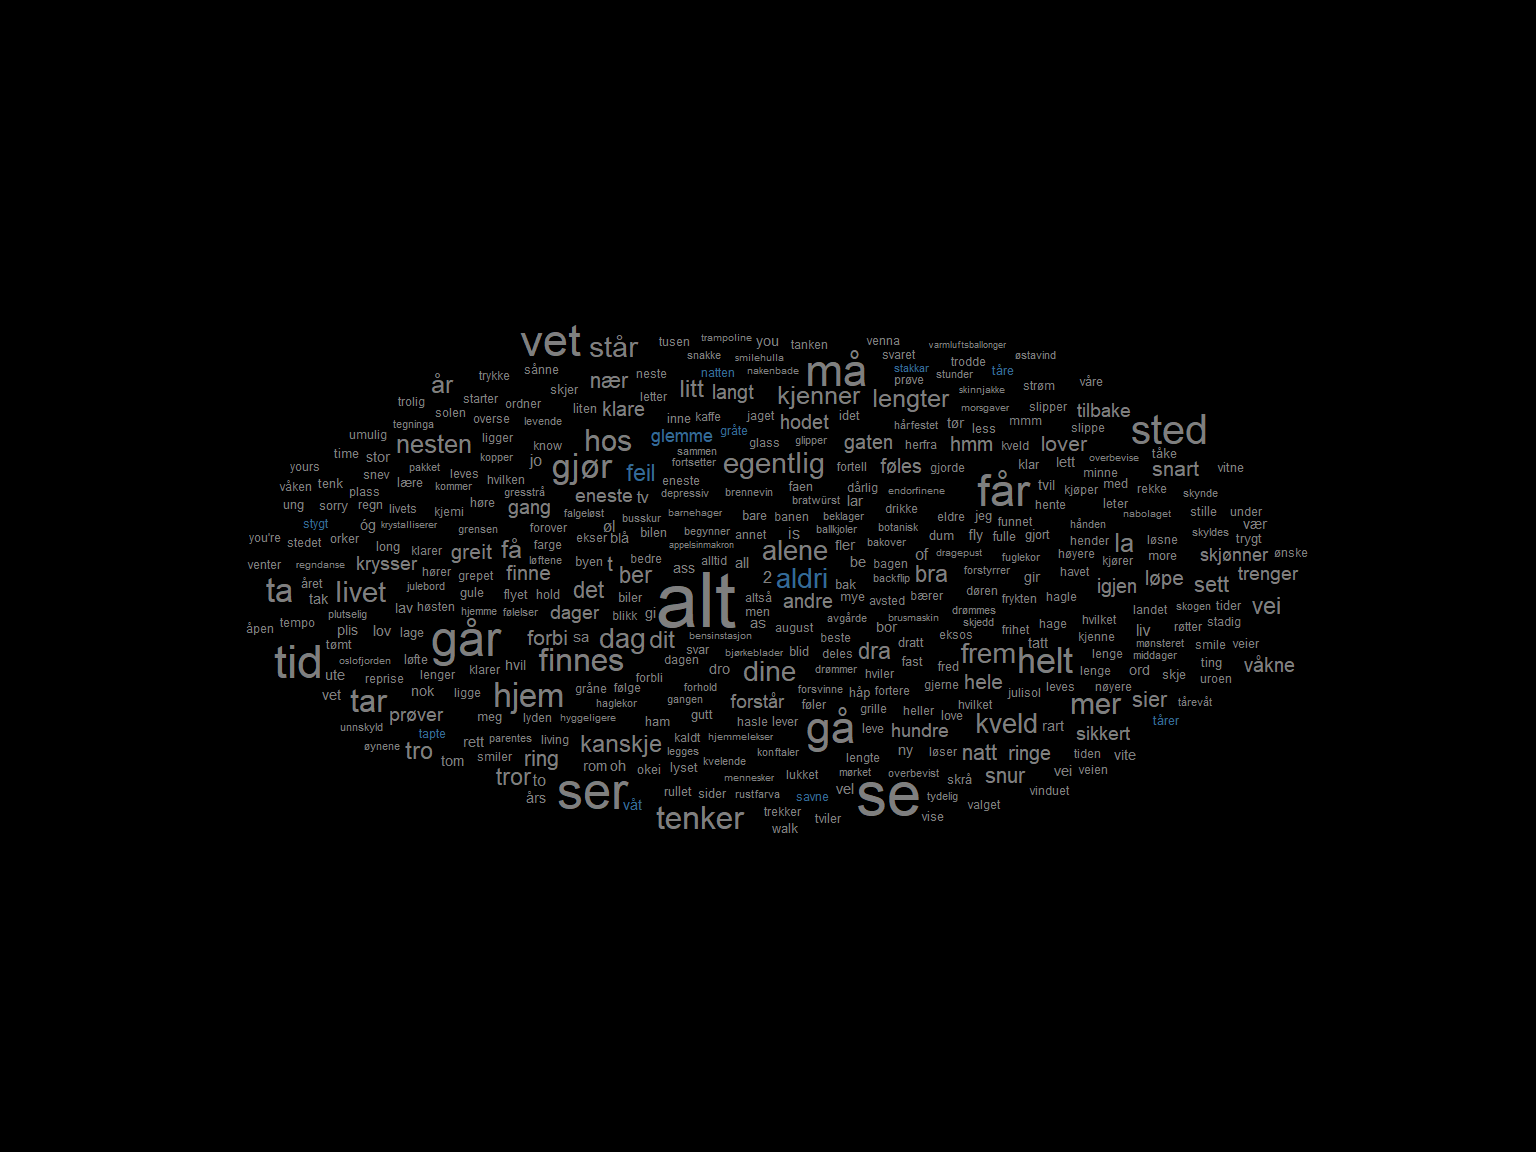
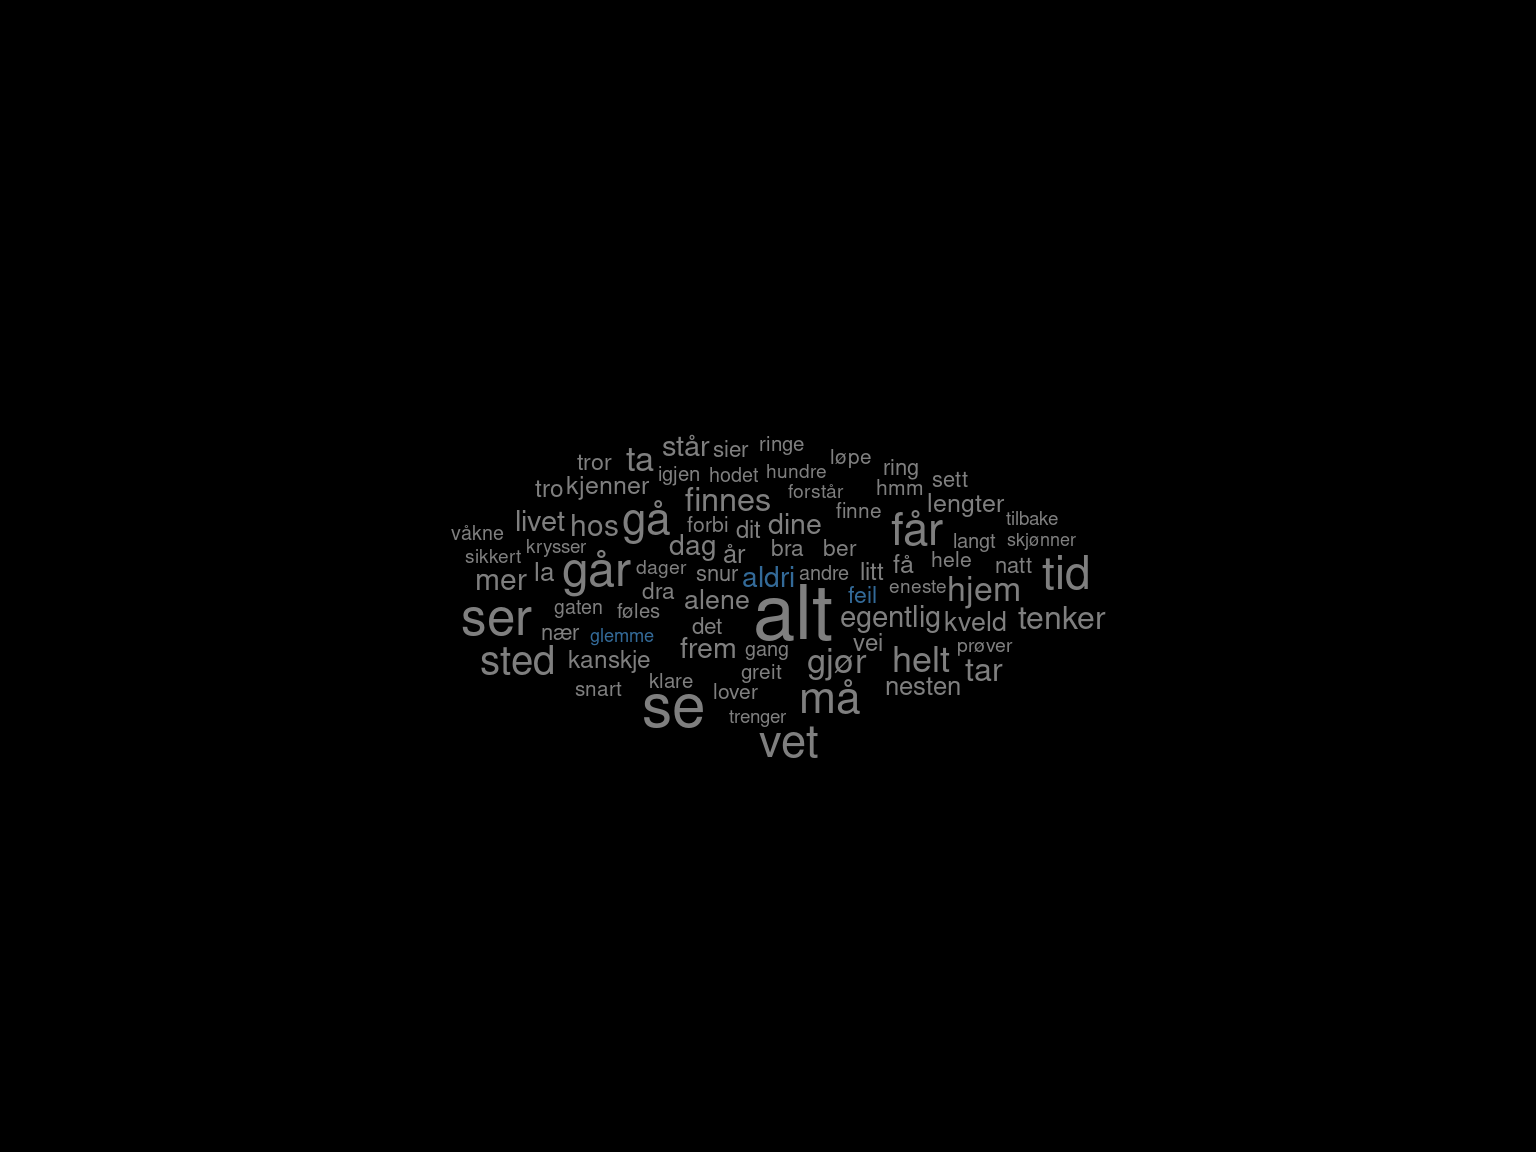
fikset litt på ting som gjorde presentasjonen treg +++

Changed region(s): [[0.1562, 0.2812, 0.8438, 0.7188]]

diff --git a/undervisningsmateriell/forelesninger/uke_01/uke01_intro.html b/undervisningsmateriell/forelesninger/uke_01/uke01_intro.html
@@ -620,9 +620,9 @@ Grunnbok!
 </ul></li>
 <li class="fragment"><p style="color:#D1B41B">
 Silge J, Robinson D (2017). <em>Text mining with R: A tidy
-approach</em>., O’Reilly Media, Inc. &lt;URL: <a
+approach</em>., O’Reilly Media, Inc. <a
 href="https://www.tidytextmining.com/"
-class="uri">https://www.tidytextmining.com/</a>&gt;.
+class="uri">https://www.tidytextmining.com/</a>.
 </p>
 <ul>
 <li class="fragment"><p style="color:#ffffff">
@@ -632,8 +632,8 @@ Tidy tekstformat
 <li class="fragment"><p style="color:#D1B41B">
 Benoit K, Watanabe K, Nulty P, Obeng A, Wang H, Lauderdale B, Lowe W,
 (2017). <em>quanteda: Quantitative Analysis of Textual Data</em>. R
-package, version 0.9.9-65, &lt;URL: <a href="http://quanteda.io"
-class="uri">http://quanteda.io</a>&gt;.
+package, version 0.9.9-65, <a href="http://quanteda.io"
+class="uri">http://quanteda.io</a>.
 </p>
 <ul>
 <li class="fragment"><p style="color:#ffffff">
@@ -793,7 +793,7 @@ class="sourceCode r wider-chunk"><code class="sourceCode r"><span id="cb1-1"><a 
 <section class="slide level2">
 
 <p></br></br></p>
-<pre><code>## # A tibble: 12 x 3
+<pre><code>## # A tibble: 12 × 3
 ##    spor  titler                        tekst                          
 ##    &lt;chr&gt; &lt;chr&gt;                         &lt;chr&gt;                          
 ##  1 1     Parentes                      &quot;Forstyrrer jeg, eller har du &quot;
@@ -823,16 +823,16 @@ class="sourceCode r code-bg"><code class="sourceCode r"><span id="cb3-1"><a href
 <span id="cb3-8"><a href="#cb3-8" aria-hidden="true" tabindex="-1"></a>  <span class="fu">count</span>(ord)</span>
 <span id="cb3-9"><a href="#cb3-9" aria-hidden="true" tabindex="-1"></a></span>
 <span id="cb3-10"><a href="#cb3-10" aria-hidden="true" tabindex="-1"></a>no4_tokens <span class="sc">%&gt;%</span> <span class="fu">head</span>(<span class="dv">6</span>)</span></code></pre></div>
-<pre><code>## # A tibble: 6 x 3
+<pre><code>## # A tibble: 6 × 3
 ## # Groups:   spor [1]
 ##    spor ord       n
 ##   &lt;int&gt; &lt;chr&gt; &lt;int&gt;
-## 1     1 at        5
-## 2     1 bare      4
-## 3     1 bra       1
-## 4     1 der       1
-## 5     1 det       4
-## 6     1 dette     4</code></pre>
+## 1     1 å         1
+## 2     1 at        5
+## 3     1 bare      4
+## 4     1 bra       1
+## 5     1 der       1
+## 6     1 det       4</code></pre>
 </div>
 <div class="fragment">
 <div class="right" style="float:right;width:50%">
@@ -842,7 +842,7 @@ class="sourceCode r code-bg"><code class="sourceCode r"><span id="cb5-1"><a href
 <span id="cb5-3"><a href="#cb5-3" aria-hidden="true" tabindex="-1"></a>  <span class="fu">slice_max</span>(<span class="at">n =</span> <span class="dv">1</span>, </span>
 <span id="cb5-4"><a href="#cb5-4" aria-hidden="true" tabindex="-1"></a>            <span class="at">order_by =</span> n, </span>
 <span id="cb5-5"><a href="#cb5-5" aria-hidden="true" tabindex="-1"></a>            <span class="at">with_ties =</span> <span class="cn">FALSE</span>)</span></code></pre></div>
-<pre><code>## # A tibble: 12 x 3
+<pre><code>## # A tibble: 12 × 3
 ## # Groups:   spor [12]
 ##     spor ord         n
 ##    &lt;int&gt; &lt;chr&gt;   &lt;int&gt;
@@ -876,7 +876,7 @@ class="sourceCode r code-bg"><code class="sourceCode r"><span id="cb7-1"><a href
 <span id="cb7-9"><a href="#cb7-9" aria-hidden="true" tabindex="-1"></a>  <span class="fu">filter</span>(ord <span class="sc">%in%</span> quanteda<span class="sc">::</span><span class="fu">stopwords</span>(<span class="st">&quot;no&quot;</span>) <span class="sc">==</span> <span class="cn">FALSE</span>)</span>
 <span id="cb7-10"><a href="#cb7-10" aria-hidden="true" tabindex="-1"></a></span>
 <span id="cb7-11"><a href="#cb7-11" aria-hidden="true" tabindex="-1"></a>no4_tokens <span class="sc">%&gt;%</span> <span class="fu">head</span>(<span class="dv">6</span>)</span></code></pre></div>
-<pre><code>## # A tibble: 6 x 3
+<pre><code>## # A tibble: 6 × 3
 ## # Groups:   spor [1]
 ##    spor ord            n
 ##   &lt;int&gt; &lt;chr&gt;      &lt;int&gt;
@@ -895,7 +895,7 @@ class="sourceCode r code-bg"><code class="sourceCode r"><span id="cb9-1"><a href
 <span id="cb9-3"><a href="#cb9-3" aria-hidden="true" tabindex="-1"></a>  <span class="fu">slice_max</span>(<span class="at">n =</span> <span class="dv">1</span>, </span>
 <span id="cb9-4"><a href="#cb9-4" aria-hidden="true" tabindex="-1"></a>            <span class="at">order_by =</span> n, </span>
 <span id="cb9-5"><a href="#cb9-5" aria-hidden="true" tabindex="-1"></a>            <span class="at">with_ties =</span> <span class="cn">FALSE</span>)</span></code></pre></div>
-<pre><code>## # A tibble: 12 x 3
+<pre><code>## # A tibble: 12 × 3
 ## # Groups:   spor [12]
 ##     spor ord         n
 ##    &lt;int&gt; &lt;chr&gt;   &lt;int&gt;
@@ -955,7 +955,7 @@ forskningsprosessen:</p>
 <li class="fragment">Hvilket ord dukker oftest opp på platen?</li>
 </ul>
 <div class="fragment">
-<pre><code>## # A tibble: 405 x 2
+<pre><code>## # A tibble: 405 × 2
 ##    ord       n
 ##    &lt;chr&gt; &lt;int&gt;
 ##  1 alt      10
@@ -968,7 +968,7 @@ forskningsprosessen:</p>
 ##  8 sted      5
 ##  9 tid       5
 ## 10 vet       5
-## # ... with 395 more rows</code></pre>
+## # … with 395 more rows</code></pre>
 </div>
 </section>
 <section id="deskriptiv-1" class="slide level2">
@@ -984,7 +984,6 @@ aktører?</li>
 </section>
 <section id="deskriptiv-2" class="slide level2">
 <h2>Deskriptiv</h2>
-<pre><code>## Warning: package &#39;igraph&#39; was built under R version 4.1.3</code></pre>
 <p><img src="uke01_intro_files/figure-revealjs/nettverk-1.png" width="768" /></p>
 </section>
 <section id="veiledet-vs.-ikke-veiledet-læring" class="slide level2">
@@ -1023,7 +1022,7 @@ den kan applisere på ny data.</p></li>
 <div class="fragment">
 <div class="right" style="float:right;width:50%">
 <p>Kan vi bruke informasjon om disse objektene…</p>
-<pre><code>## # A tibble: 5 x 3
+<pre><code>## # A tibble: 5 × 3
 ##   frukt fasong farge
 ##   &lt;chr&gt; &lt;chr&gt;  &lt;chr&gt;
 ## 1 banan lang   gul  
@@ -1032,7 +1031,7 @@ den kan applisere på ny data.</p></li>
 ## 4 banan lang   gul  
 ## 5 pære  lang   grønn</code></pre>
 <p>Til å finne ut om disse objektene er banan eller pære?</p>
-<pre><code>## # A tibble: 2 x 3
+<pre><code>## # A tibble: 2 × 3
 ##   frukt fasong farge
 ##   &lt;chr&gt; &lt;chr&gt;  &lt;chr&gt;
 ## 1 &quot;&quot;    rund   gul  
@@ -1056,7 +1055,7 @@ måling.</p></li>
 <div class="fragment">
 <div class="right" style="float:right;width:50%">
 <p>Vi kan bruke informasjon om disse objektene…</p>
-<pre><code>## # A tibble: 5 x 3
+<pre><code>## # A tibble: 5 × 3
 ##   fasong farge størrelse
 ##   &lt;chr&gt;  &lt;chr&gt; &lt;chr&gt;    
 ## 1 lang   gul   middels  
@@ -1065,7 +1064,7 @@ måling.</p></li>
 ## 4 lang   gul   middels  
 ## 5 lang   grønn stor</code></pre>
 <p>Til å si noe om hvordan objektene hører sammen?</p>
-<pre><code>## # A tibble: 5 x 4
+<pre><code>## # A tibble: 5 × 4
 ##   fasong farge størrelse  type
 ##   &lt;chr&gt;  &lt;chr&gt; &lt;chr&gt;     &lt;dbl&gt;
 ## 1 lang   gul   middels       1
@@ -1084,28 +1083,29 @@ og sjekk hvor mange ganger disse ordene dukker opp i ulike tekster.</p>
 <li class="fragment">Ordbøker er regelbaserte</li>
 </ul>
 <div class="fragment">
-<div class="sourceCode" id="cb19"><pre
-class="sourceCode r code-bg"><code class="sourceCode r"><span id="cb19-1"><a href="#cb19-1" aria-hidden="true" tabindex="-1"></a>trist <span class="ot">&lt;-</span> <span class="fu">tibble</span>(<span class="at">ord =</span> <span class="fu">c</span>(<span class="st">&quot;gråte&quot;</span>, <span class="st">&quot;savne&quot;</span>, <span class="st">&quot;våt&quot;</span>, <span class="st">&quot;tåre&quot;</span>, <span class="st">&quot;tårer&quot;</span>, <span class="st">&quot;stakkar&quot;</span>, <span class="st">&quot;stygt&quot;</span>, <span class="st">&quot;feil&quot;</span>, <span class="st">&quot;aldri&quot;</span>, <span class="st">&quot;natten&quot;</span>, <span class="st">&quot;glemme&quot;</span>, <span class="st">&quot;tapte&quot;</span>),</span>
-<span id="cb19-2"><a href="#cb19-2" aria-hidden="true" tabindex="-1"></a>                <span class="at">trist =</span> <span class="fu">c</span>(<span class="dv">1</span>, <span class="dv">1</span>, <span class="dv">1</span>, <span class="dv">1</span>, <span class="dv">1</span>, <span class="dv">1</span>, <span class="dv">1</span>, <span class="dv">1</span>, <span class="dv">1</span>, <span class="dv">1</span>, <span class="dv">1</span>, <span class="dv">1</span>))</span>
-<span id="cb19-3"><a href="#cb19-3" aria-hidden="true" tabindex="-1"></a></span>
-<span id="cb19-4"><a href="#cb19-4" aria-hidden="true" tabindex="-1"></a>no4_tokens <span class="sc">%&gt;%</span></span>
-<span id="cb19-5"><a href="#cb19-5" aria-hidden="true" tabindex="-1"></a>  <span class="fu">ungroup</span>() <span class="sc">%&gt;%</span></span>
-<span id="cb19-6"><a href="#cb19-6" aria-hidden="true" tabindex="-1"></a>  <span class="fu">count</span>(ord) <span class="sc">%&gt;%</span></span>
-<span id="cb19-7"><a href="#cb19-7" aria-hidden="true" tabindex="-1"></a>  <span class="fu">left_join</span>(trist) <span class="sc">%&gt;%</span></span>
-<span id="cb19-8"><a href="#cb19-8" aria-hidden="true" tabindex="-1"></a>  <span class="fu">ggplot</span>(., <span class="fu">aes</span>(<span class="at">label =</span> ord, </span>
-<span id="cb19-9"><a href="#cb19-9" aria-hidden="true" tabindex="-1"></a>                <span class="at">size =</span> n,  </span>
-<span id="cb19-10"><a href="#cb19-10" aria-hidden="true" tabindex="-1"></a>                <span class="at">color =</span> trist)) <span class="sc">+</span></span>
-<span id="cb19-11"><a href="#cb19-11" aria-hidden="true" tabindex="-1"></a>  <span class="fu">geom_text_wordcloud_area</span>()<span class="sc">+</span></span>
-<span id="cb19-12"><a href="#cb19-12" aria-hidden="true" tabindex="-1"></a>  <span class="fu">scale_size_area</span>(<span class="at">max_size =</span> <span class="dv">10</span>) <span class="sc">+</span></span>
-<span id="cb19-13"><a href="#cb19-13" aria-hidden="true" tabindex="-1"></a>  ggdark<span class="sc">::</span><span class="fu">dark_theme_void</span>()</span></code></pre></div>
-<p><img src="uke01_intro_files/figure-revealjs/ordbok-1.png" width="768" /></p>
+<div class="sourceCode" id="cb18"><pre
+class="sourceCode r code-bg"><code class="sourceCode r"><span id="cb18-1"><a href="#cb18-1" aria-hidden="true" tabindex="-1"></a>trist <span class="ot">&lt;-</span> <span class="fu">tibble</span>(<span class="at">ord =</span> <span class="fu">c</span>(<span class="st">&quot;gråte&quot;</span>, <span class="st">&quot;savne&quot;</span>, <span class="st">&quot;våt&quot;</span>, <span class="st">&quot;tåre&quot;</span>, <span class="st">&quot;tårer&quot;</span>, <span class="st">&quot;stakkar&quot;</span>, <span class="st">&quot;stygt&quot;</span>, <span class="st">&quot;feil&quot;</span>, <span class="st">&quot;aldri&quot;</span>, <span class="st">&quot;natten&quot;</span>, <span class="st">&quot;glemme&quot;</span>, <span class="st">&quot;tapte&quot;</span>),</span>
+<span id="cb18-2"><a href="#cb18-2" aria-hidden="true" tabindex="-1"></a>                <span class="at">trist =</span> <span class="fu">c</span>(<span class="dv">1</span>, <span class="dv">1</span>, <span class="dv">1</span>, <span class="dv">1</span>, <span class="dv">1</span>, <span class="dv">1</span>, <span class="dv">1</span>, <span class="dv">1</span>, <span class="dv">1</span>, <span class="dv">1</span>, <span class="dv">1</span>, <span class="dv">1</span>))</span>
+<span id="cb18-3"><a href="#cb18-3" aria-hidden="true" tabindex="-1"></a></span>
+<span id="cb18-4"><a href="#cb18-4" aria-hidden="true" tabindex="-1"></a>no4_tokens <span class="sc">%&gt;%</span></span>
+<span id="cb18-5"><a href="#cb18-5" aria-hidden="true" tabindex="-1"></a>  <span class="fu">ungroup</span>() <span class="sc">%&gt;%</span></span>
+<span id="cb18-6"><a href="#cb18-6" aria-hidden="true" tabindex="-1"></a>  <span class="fu">count</span>(ord) <span class="sc">%&gt;%</span></span>
+<span id="cb18-7"><a href="#cb18-7" aria-hidden="true" tabindex="-1"></a>  <span class="fu">left_join</span>(trist) <span class="sc">%&gt;%</span></span>
+<span id="cb18-8"><a href="#cb18-8" aria-hidden="true" tabindex="-1"></a>  <span class="fu">ggplot</span>(., <span class="fu">aes</span>(<span class="at">label =</span> ord, </span>
+<span id="cb18-9"><a href="#cb18-9" aria-hidden="true" tabindex="-1"></a>                <span class="at">size =</span> n,  </span>
+<span id="cb18-10"><a href="#cb18-10" aria-hidden="true" tabindex="-1"></a>                <span class="at">color =</span> trist)) <span class="sc">+</span></span>
+<span id="cb18-11"><a href="#cb18-11" aria-hidden="true" tabindex="-1"></a>  <span class="fu">geom_text_wordcloud_area</span>()<span class="sc">+</span></span>
+<span id="cb18-12"><a href="#cb18-12" aria-hidden="true" tabindex="-1"></a>  <span class="fu">scale_size_area</span>(<span class="at">max_size =</span> <span class="dv">10</span>) <span class="sc">+</span></span>
+<span id="cb18-13"><a href="#cb18-13" aria-hidden="true" tabindex="-1"></a>  ggdark<span class="sc">::</span><span class="fu">dark_theme_void</span>()</span>
+<span id="cb18-14"><a href="#cb18-14" aria-hidden="true" tabindex="-1"></a><span class="fu">ggsave</span>(<span class="st">&quot;./triste_ord.png&quot;</span>, <span class="at">width =</span> <span class="dv">10</span>, <span class="at">height =</span> <span class="dv">10</span>)</span></code></pre></div>
 </div>
 </section>
-<section id="ordbøker-tekstlikhet-og-sentiment-1" class="slide level2">
-<h2>Ordbøker, tekstlikhet og sentiment</h2>
-<p><img src="uke01_intro_files/figure-revealjs/ordbok-ordsky-1.png" width="768" /></p>
+<section id="section-3" class="slide level2"
+data-background="triste_ord.png" data-background-size="5200px">
+<h2 data-background="triste_ord.png" data-background-size="5200px"></h2>
+<!-- ![](./triste_ord.png){width=98%} -->
 </section>
-<section id="ordbøker-tekstlikhet-og-sentiment-2" class="slide level2">
+<section id="ordbøker-tekstlikhet-og-sentiment-1" class="slide level2">
 <h2>Ordbøker, tekstlikhet og sentiment</h2>
 <p><strong>Tekstlikhet:</strong> Ta to tekster og sammenlikn hvor like
 de er.</p>
@@ -1114,19 +1114,19 @@ de er.</p>
 læring.</li>
 </ul>
 <div class="fragment">
-<div class="sourceCode" id="cb20"><pre
-class="sourceCode r code-bg"><code class="sourceCode r"><span id="cb20-1"><a href="#cb20-1" aria-hidden="true" tabindex="-1"></a>no4 <span class="sc">%&gt;%</span> </span>
-<span id="cb20-2"><a href="#cb20-2" aria-hidden="true" tabindex="-1"></a>  <span class="fu">filter</span>(spor <span class="sc">%in%</span> <span class="fu">c</span>(<span class="dv">2</span>, <span class="dv">4</span>)) <span class="sc">%&gt;%</span> </span>
-<span id="cb20-3"><a href="#cb20-3" aria-hidden="true" tabindex="-1"></a>  <span class="fu">mutate</span>(<span class="at">likhet =</span> <span class="fu">c</span>(<span class="fl">0.09630868</span>, <span class="fl">0.09630868</span>)) <span class="sc">%&gt;%</span></span>
-<span id="cb20-4"><a href="#cb20-4" aria-hidden="true" tabindex="-1"></a>  <span class="fu">select</span>(likhet, titler, tekst)</span></code></pre></div>
-<pre><code>## # A tibble: 2 x 3
+<div class="sourceCode" id="cb19"><pre
+class="sourceCode r code-bg"><code class="sourceCode r"><span id="cb19-1"><a href="#cb19-1" aria-hidden="true" tabindex="-1"></a>no4 <span class="sc">%&gt;%</span> </span>
+<span id="cb19-2"><a href="#cb19-2" aria-hidden="true" tabindex="-1"></a>  <span class="fu">filter</span>(spor <span class="sc">%in%</span> <span class="fu">c</span>(<span class="dv">2</span>, <span class="dv">4</span>)) <span class="sc">%&gt;%</span> </span>
+<span id="cb19-3"><a href="#cb19-3" aria-hidden="true" tabindex="-1"></a>  <span class="fu">mutate</span>(<span class="at">likhet =</span> <span class="fu">c</span>(<span class="fl">0.09630868</span>, <span class="fl">0.09630868</span>)) <span class="sc">%&gt;%</span></span>
+<span id="cb19-4"><a href="#cb19-4" aria-hidden="true" tabindex="-1"></a>  <span class="fu">select</span>(likhet, titler, tekst)</span></code></pre></div>
+<pre><code>## # A tibble: 2 × 3
 ##   likhet titler           tekst                                                 
 ##    &lt;dbl&gt; &lt;chr&gt;            &lt;chr&gt;                                                 
-## 1 0.0963 En av de levende Sånne dager som den her Når alt er stygt og dårlig væ~
-## 2 0.0963 Hold deg fast    Jeg gir meg, bare ta meg Du får meg, du har meg For j~</code></pre>
+## 1 0.0963 En av de levende Sånne dager som den her Når alt er stygt og dårlig væ…
+## 2 0.0963 Hold deg fast    Jeg gir meg, bare ta meg Du får meg, du har meg For j…</code></pre>
 </div>
 </section>
-<section id="ordbøker-tekstlikhet-og-sentiment-3" class="slide level2">
+<section id="ordbøker-tekstlikhet-og-sentiment-2" class="slide level2">
 <h2>Ordbøker, tekstlikhet og sentiment</h2>
 <p><strong>Sentiment:</strong> Finn ut hvor positiv, negativ eller
 nøytral en tekst er.</p>
@@ -1136,8 +1136,8 @@ og gjennom veiledet læring.</li>
 </ul>
 <p><br></p>
 <div class="fragment">
-<p><img data-src="sentiment_wordcloud_political.png"
-style="width:60.0%" /></p>
+<!-- `convert sentiment_wordcloud_political.png -negate -sharpen 0x4 -shave 0x0+10+10 sent_wc_pol.png` -->
+<p><img data-src="sent_wc_pol.png" style="width:60.0%" /></p>
 </div>
 </section>
 <section id="klassifisering-av-tekst" class="slide level2">
@@ -1149,18 +1149,18 @@ teksten.</li>
 <li class="fragment">Kan både være veiledet og ikke-veiledet</li>
 </ul>
 <div class="fragment">
-<div class="sourceCode" id="cb22"><pre
-class="sourceCode r code-bg"><code class="sourceCode r"><span id="cb22-1"><a href="#cb22-1" aria-hidden="true" tabindex="-1"></a>no4 <span class="sc">%&gt;%</span></span>
-<span id="cb22-2"><a href="#cb22-2" aria-hidden="true" tabindex="-1"></a>  <span class="fu">filter</span>(spor <span class="sc">==</span> <span class="dv">1</span><span class="sc">:</span><span class="dv">4</span>) <span class="sc">%&gt;%</span></span>
-<span id="cb22-3"><a href="#cb22-3" aria-hidden="true" tabindex="-1"></a>  <span class="fu">mutate</span>(<span class="at">type =</span> <span class="fu">c</span>(<span class="st">&quot;glad&quot;</span>, <span class="st">&quot;trist&quot;</span>, <span class="st">&quot;trist&quot;</span>, <span class="st">&quot;glad&quot;</span>)) <span class="sc">%&gt;%</span></span>
-<span id="cb22-4"><a href="#cb22-4" aria-hidden="true" tabindex="-1"></a>  <span class="fu">select</span>(spor, titler, type, tekst)</span></code></pre></div>
-<pre><code>## # A tibble: 4 x 4
+<div class="sourceCode" id="cb21"><pre
+class="sourceCode r code-bg"><code class="sourceCode r"><span id="cb21-1"><a href="#cb21-1" aria-hidden="true" tabindex="-1"></a>no4 <span class="sc">%&gt;%</span></span>
+<span id="cb21-2"><a href="#cb21-2" aria-hidden="true" tabindex="-1"></a>  <span class="fu">filter</span>(spor <span class="sc">==</span> <span class="dv">1</span><span class="sc">:</span><span class="dv">4</span>) <span class="sc">%&gt;%</span></span>
+<span id="cb21-3"><a href="#cb21-3" aria-hidden="true" tabindex="-1"></a>  <span class="fu">mutate</span>(<span class="at">type =</span> <span class="fu">c</span>(<span class="st">&quot;glad&quot;</span>, <span class="st">&quot;trist&quot;</span>, <span class="st">&quot;trist&quot;</span>, <span class="st">&quot;glad&quot;</span>)) <span class="sc">%&gt;%</span></span>
+<span id="cb21-4"><a href="#cb21-4" aria-hidden="true" tabindex="-1"></a>  <span class="fu">select</span>(spor, titler, type, tekst)</span></code></pre></div>
+<pre><code>## # A tibble: 4 × 4
 ##    spor titler           type  tekst                                            
 ##   &lt;int&gt; &lt;chr&gt;            &lt;chr&gt; &lt;chr&gt;                                            
-## 1     1 Parentes         glad  Forstyrrer jeg, eller har du tid til å høre på m~
-## 2     2 En av de levende trist Sånne dager som den her Når alt er stygt og dårl~
-## 3     3 Hvilket vi       trist Har du tid til meg nå? Plutselig alt tid til meg~
-## 4     4 Hold deg fast    glad  Jeg gir meg, bare ta meg Du får meg, du har meg ~</code></pre>
+## 1     1 Parentes         glad  Forstyrrer jeg, eller har du tid til å høre på m…
+## 2     2 En av de levende trist Sånne dager som den her Når alt er stygt og dårl…
+## 3     3 Hvilket vi       trist Har du tid til meg nå? Plutselig alt tid til meg…
+## 4     4 Hold deg fast    glad  Jeg gir meg, bare ta meg Du får meg, du har meg …</code></pre>
 </div>
 </section>
 <section id="klassifisering-av-tekst-1" class="slide level2">
@@ -1180,7 +1180,8 @@ ikke-veiledet.</p></li>
 politiske høyresiden eller venstresiden?</p></li>
 </ul>
 <div class="fragment">
-<p><img data-src="spektrum.PNG" style="width:60.0%" /></p>
+<!-- `convert spektrum.PNG -negate -shave 0x10+0+0 spektrum2.png` -->
+<p><img data-src="spektrum2.png" style="width:60.0%" /></p>
 </div>
 </section></section>
 <section id="oppsummering" class="title-slide slide level1">
